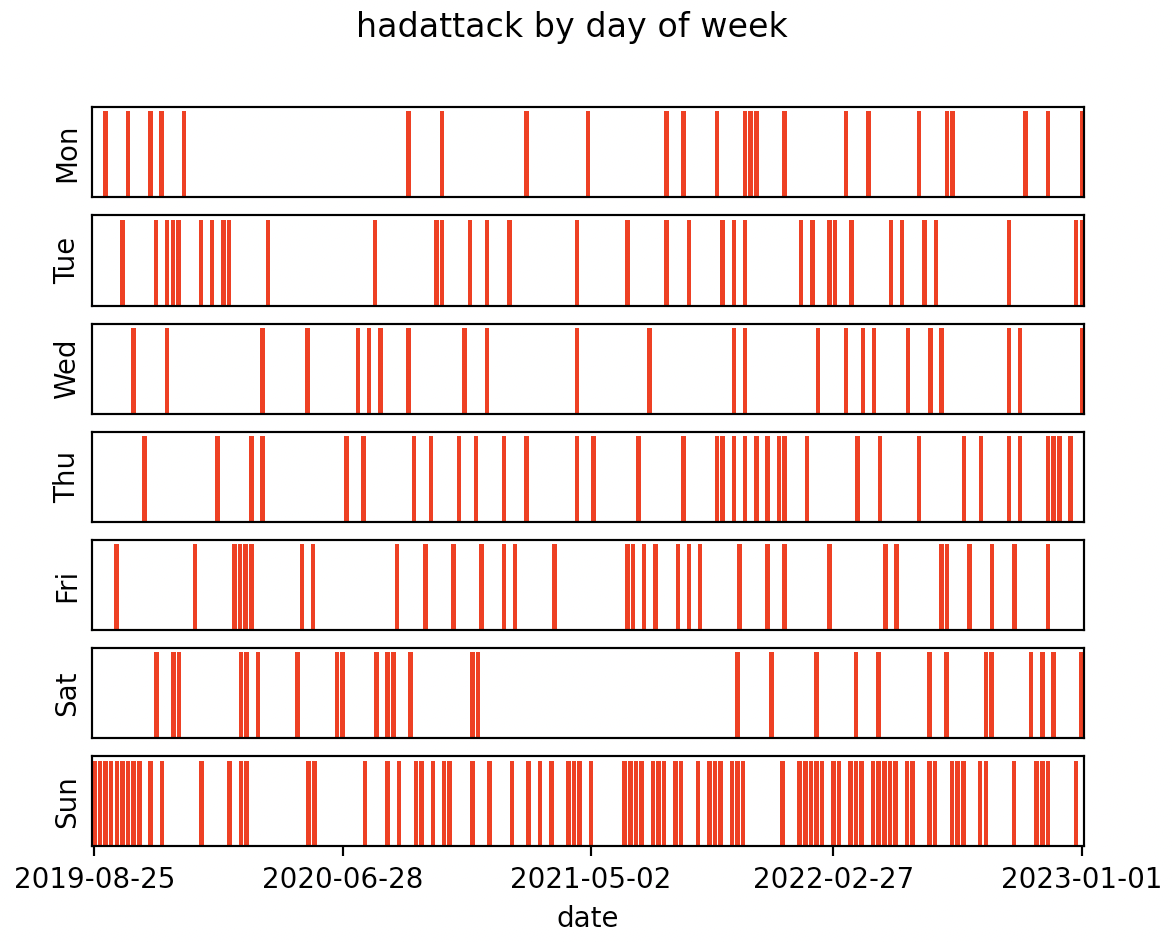
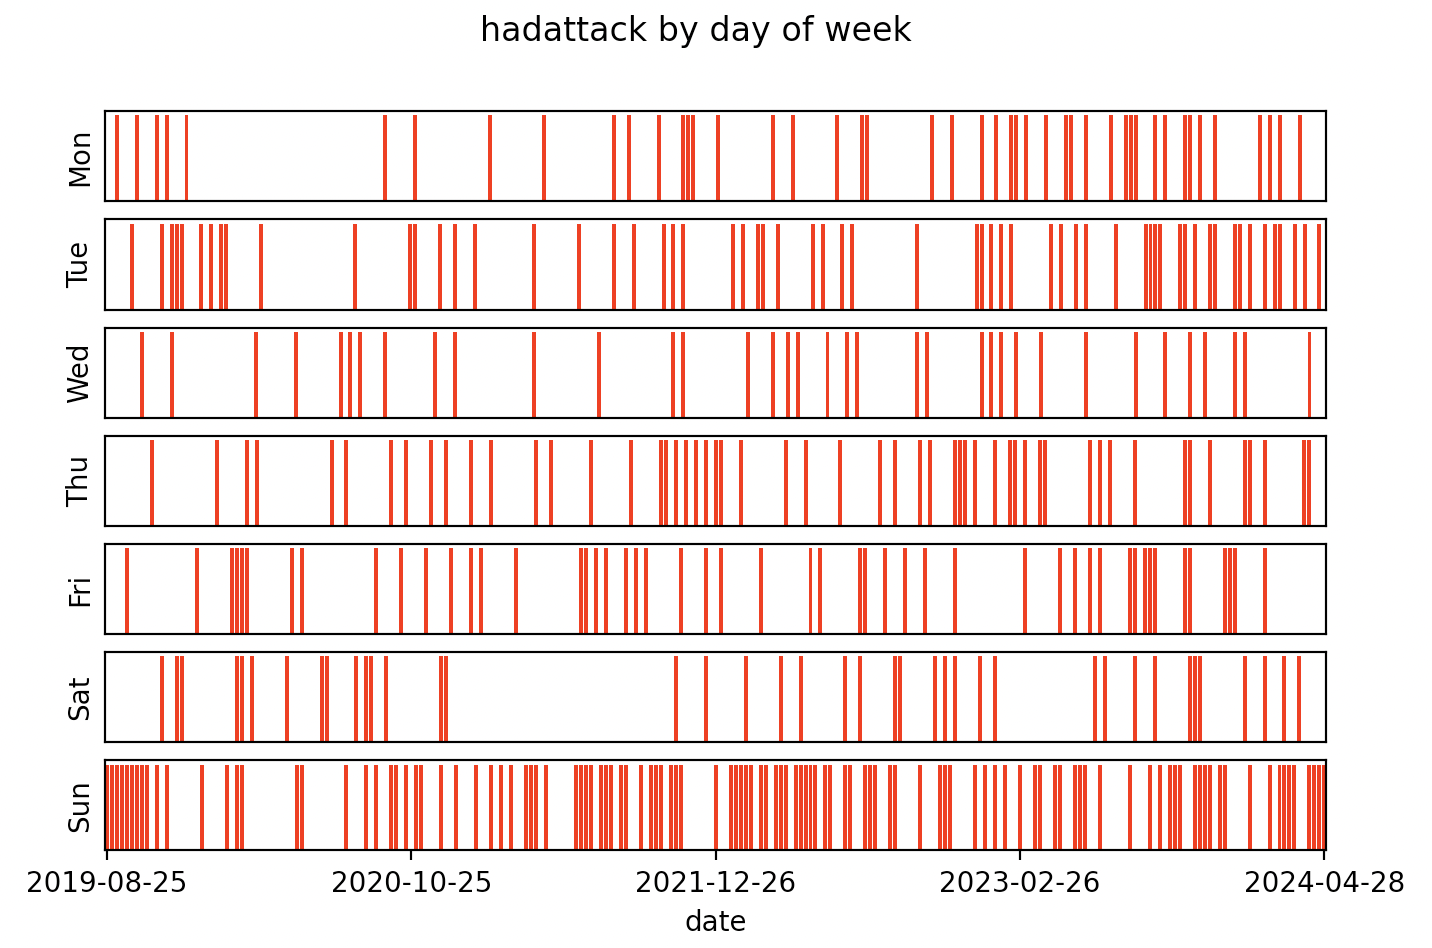
Update hadattackByDayOfWeek graph

Changed region(s): [[0.0, 0.0924, 1.0, 0.9851], [0.3072, 0.0, 0.6758, 0.0616]]

diff --git a/health/myHealthCondition.html b/health/myHealthCondition.html
@@ -18,7 +18,7 @@
       <p>Here are some findings:</p>
       <p>
         <h2>Attack Frequency by Day of Week</h2>
-        For years, I have been much more likely to have migraine attacks on Sundays than other days of the week.  In the date range shown on the following graph, I recorded a migraine attack on 46% of Sundays, 14% of Mondays, 20% of Tuesdays, 14% of Wednesdays, 20% of Thursdays, 19% of Fridays, and 16% of Saturdays.
+        For years, I have been much more likely to have migraine attacks on Sundays than other days of the week.  In the date range shown on the following graph, I recorded a migraine attack on 47% of Sundays, 19% of Mondays, 25% of Tuesdays, 15% of Wednesdays, 22% of Thursdays, 20% of Fridays, and 16% of Saturdays.
         <br />
         <img src="hadattackByDayOfWeek.png" height="500px" style="border: 2px solid rgb(127,127,127)" title="day of week attack frequency graph" alt="day of week attack frequency graph" />
         <br />
